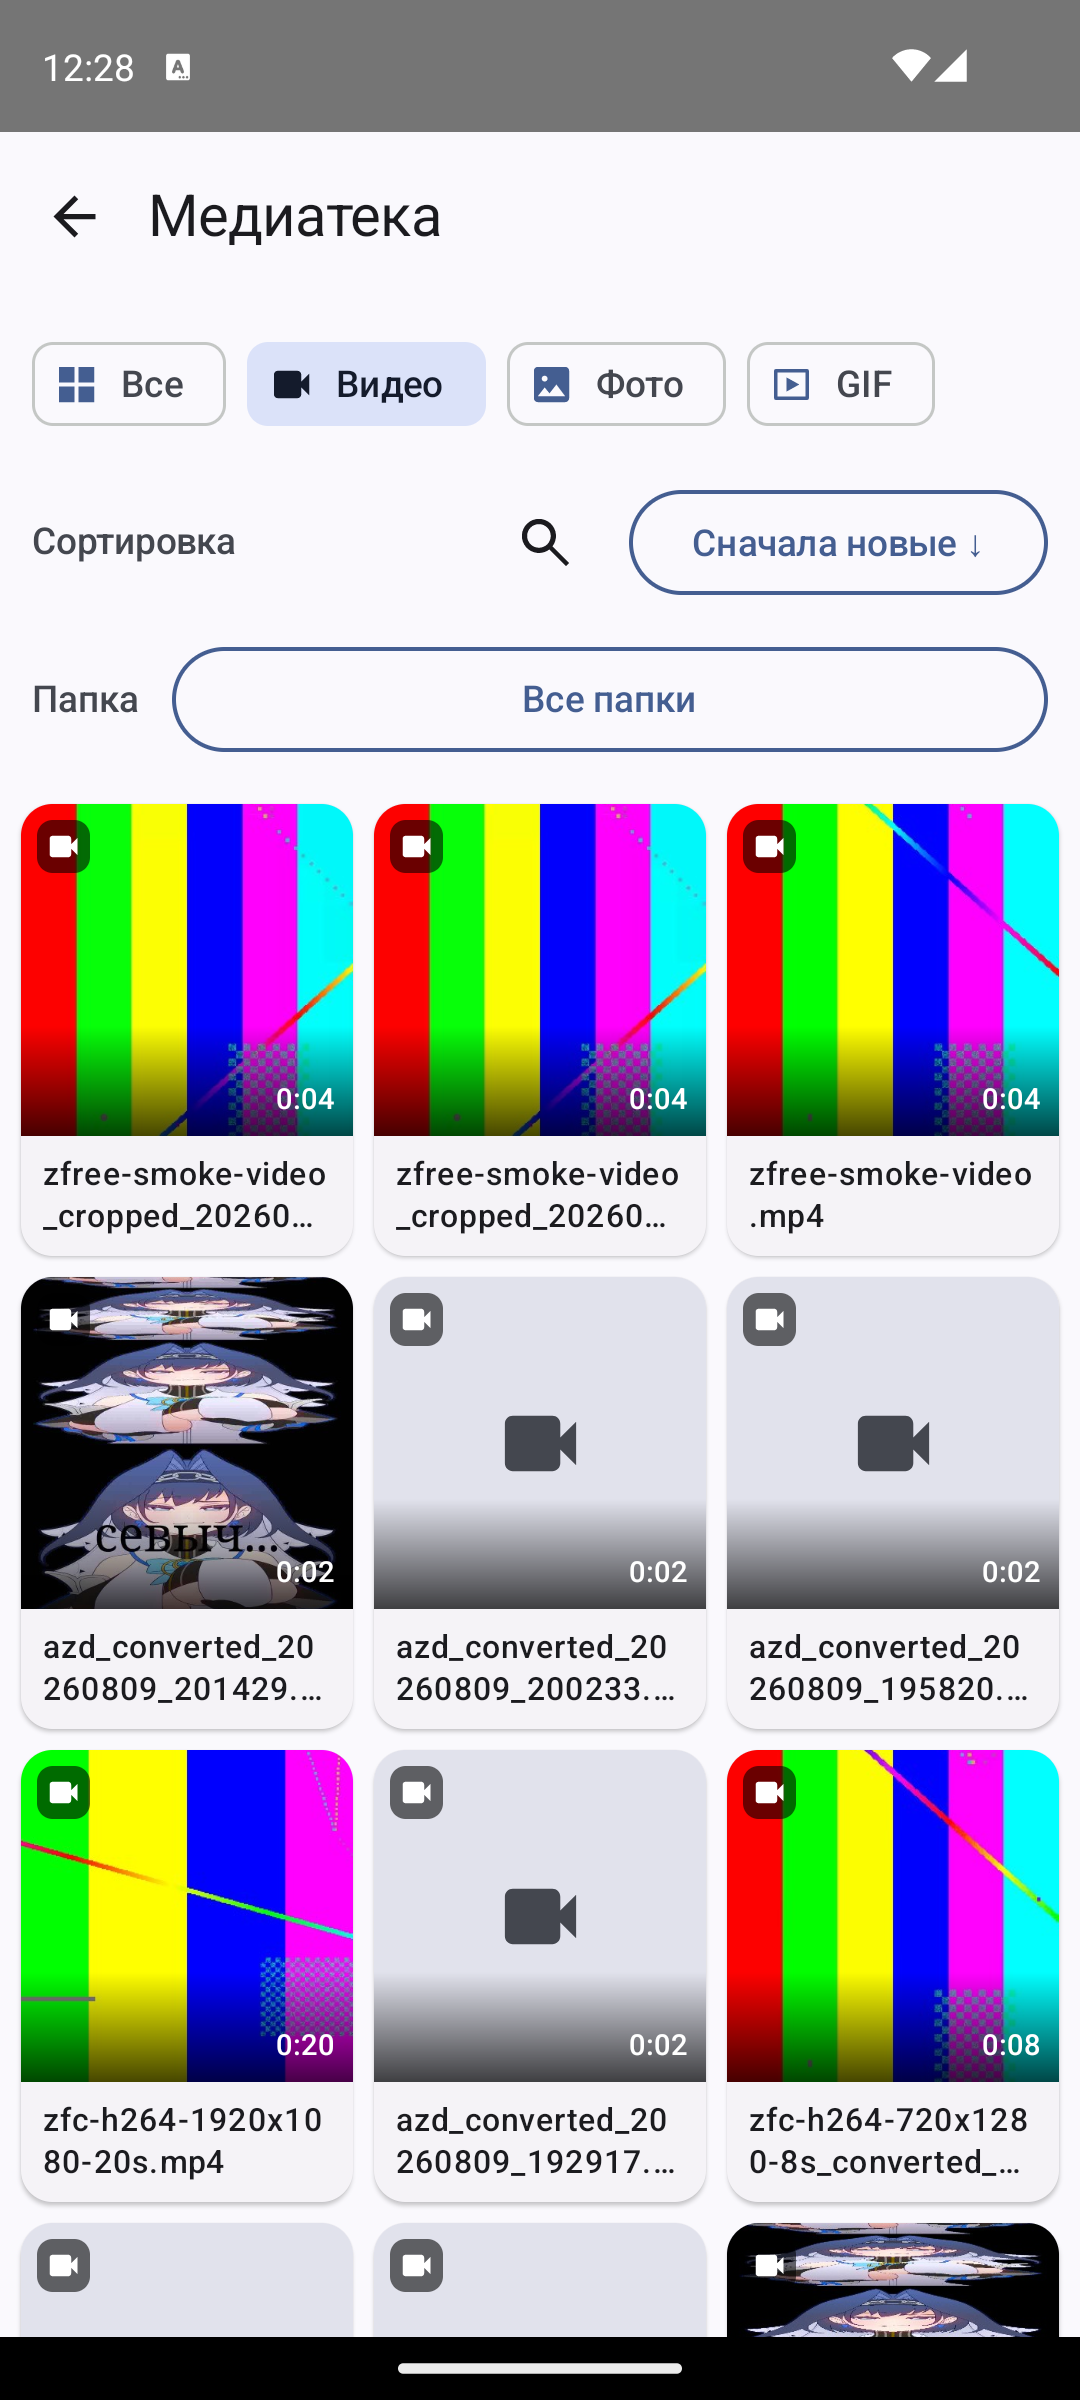
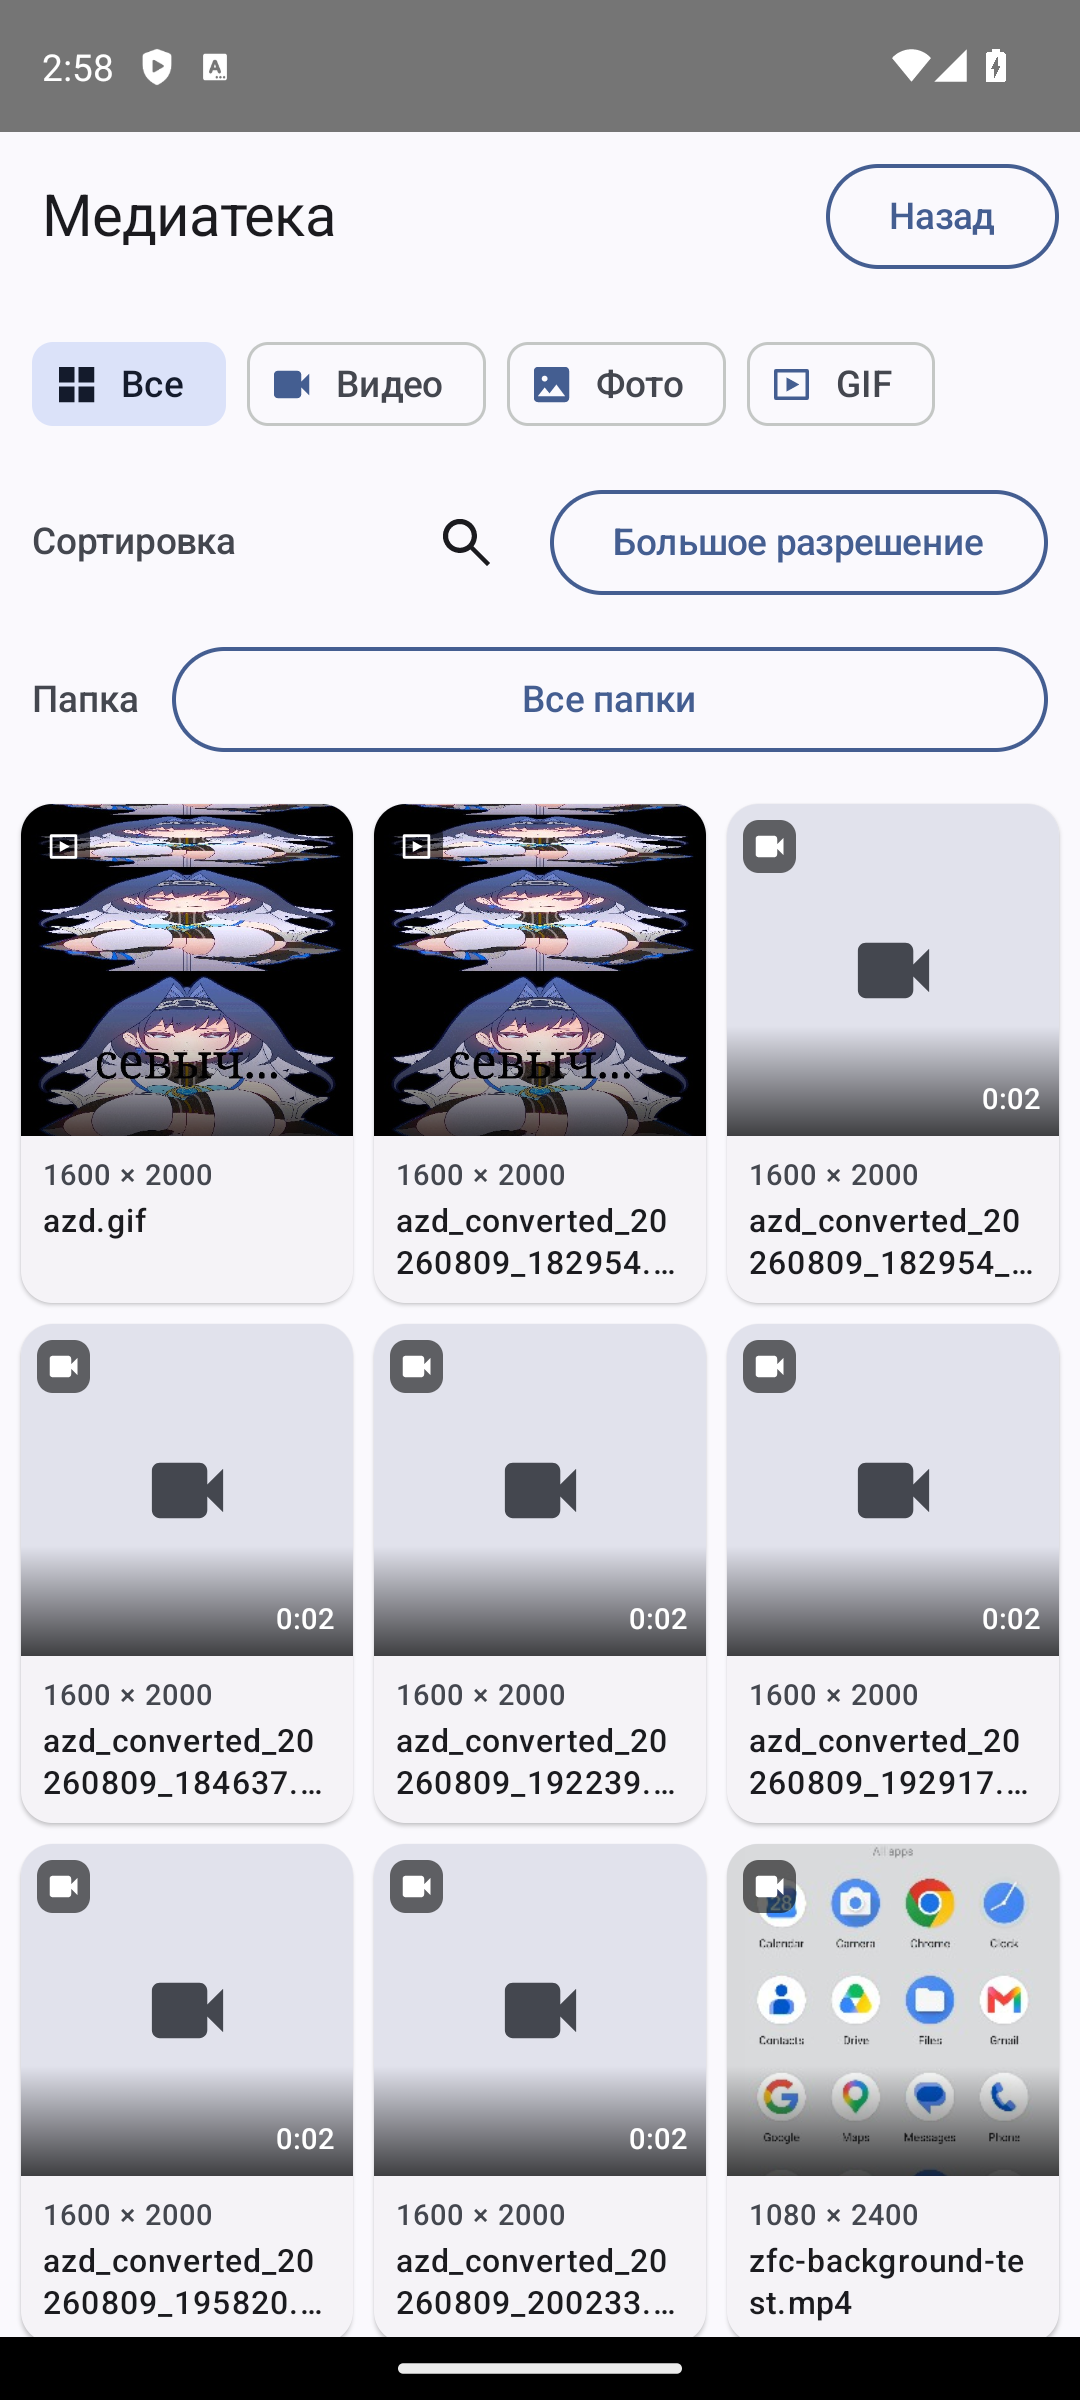
Update website for 0.5.5

diff --git a/app/page.tsx b/app/page.tsx
@@ -25,7 +25,7 @@ const copy = {
       titleA: "Обрежь лишнее.",
       titleB: "Оставь момент.",
       text: "Открой видео, фото или GIF, внеси нужные правки и сохрани результат. Всё происходит прямо на телефоне — понятно и без лишних шагов.",
-      download: "Скачать v0.5.4.1",
+      download: "Скачать v0.5.5",
       source: "Открыть код",
       note: "Бесплатно · Open source · без подписки",
       local: "Обработка на устройстве",
@@ -35,7 +35,7 @@ const copy = {
     intro: {
       kicker: "Всё в одном месте",
       title: "Один редактор для видео, фото и GIF.",
-      text: "Выбери файл на устройстве или найди медиа с открытой лицензией в онлайн-каталоге. Избранное доступно в отдельной онлайн-медиатеке, а сохранённый проект можно открыть снова в любой момент.",
+      text: "Выбери файл на устройстве или найди медиа с открытой лицензией в онлайн-каталоге. Локальная медиатека показывает фактические размеры и сортирует по разрешению, а сохранённый проект можно открыть снова в любой момент.",
     },
     media: {
       video: {
@@ -64,7 +64,7 @@ const copy = {
       names: ["Главная", "Медиатека", "Онлайн-медиа", "Редактор", "Эффекты", "Экспорт", "Настройки"],
     },
     final: {
-      eyebrow: "Версия 0.5.4.1 · Android 10+",
+      eyebrow: "Версия 0.5.5 · Android 10+",
       title: "Медиа уже на телефоне. Редактор тоже может быть там.",
       download: "Скачать APK",
       changelog: "Что нового",
@@ -91,7 +91,7 @@ const copy = {
       titleA: "Cut the noise.",
       titleB: "Keep the moment.",
       text: "Open a video, photo, or GIF, make the changes you need, and save the result. Everything happens right on your phone, without unnecessary steps.",
-      download: "Download v0.5.4.1",
+      download: "Download v0.5.5",
       source: "View source",
       note: "Free · Open source · no subscription",
       local: "On-device processing",
@@ -101,7 +101,7 @@ const copy = {
     intro: {
       kicker: "Everything in one place",
       title: "One editor for video, photos, and GIFs.",
-      text: "Choose a file on your device or find openly licensed media in the online catalog. Favorites stay in a dedicated online library, and saved projects can be reopened whenever you need them.",
+      text: "Choose a file on your device or find openly licensed media in the online catalog. The local library shows actual dimensions and sorts by resolution, and saved projects can be reopened whenever you need them.",
     },
     media: {
       video: {
@@ -130,7 +130,7 @@ const copy = {
       names: ["Home", "Library", "Online media", "Editor", "Effects", "Export", "Settings"],
     },
     final: {
-      eyebrow: "Version 0.5.4.1 · Android 10+",
+      eyebrow: "Version 0.5.5 · Android 10+",
       title: "Your media lives on your phone. Your editor can too.",
       download: "Download APK",
       changelog: "What’s new",
@@ -201,8 +201,8 @@ export default function Home() {
       if (description) {
         description.content =
           locale === "ru"
-            ? "ZFree Cutter 0.5.4.1 — открытый Android-редактор видео, фото и GIF с точным кадрированием и настраиваемым онлайн-поиском."
-            : "ZFree Cutter 0.5.4.1 is an open-source Android editor for video, photos, and GIFs with exact cropping and configurable online search.";
+            ? "ZFree Cutter 0.5.5 — открытый Android-редактор видео, фото и GIF с точным кадрированием, сортировкой по разрешению и настраиваемым онлайн-поиском."
+            : "ZFree Cutter 0.5.5 is an open-source Android editor for video, photos, and GIFs with exact cropping, resolution sorting, and configurable online search.";
       }
     });
     const revealElements = Array.from(document.querySelectorAll<HTMLElement>("[data-reveal]"));
@@ -440,7 +440,7 @@ export default function Home() {
             <p className="final-note">{t.final.note}</p>
             <div className="final-links">
               <a href={`${REPOSITORY_URL}/issues`} target="_blank" rel="noreferrer">{t.final.issues}</a>
-              <a href={`${REPOSITORY_URL}/releases/tag/v0.5.4.1`} target="_blank" rel="noreferrer">{t.final.changelog}</a>
+              <a href={`${REPOSITORY_URL}/releases/tag/v0.5.5`} target="_blank" rel="noreferrer">{t.final.changelog}</a>
             </div>
           </div>
           <div className="final-mark" aria-hidden="true">

diff --git a/app/layout.tsx b/app/layout.tsx
@@ -18,7 +18,7 @@ export const metadata: Metadata = {
   metadataBase: new URL(siteUrl),
   title: "ZFree Cutter — media editor for Android",
   description:
-    "ZFree Cutter 0.5.4.1 is an open-source Android editor for video, photos, and GIFs with exact cropping, configurable online media search, and on-device export.",
+    "ZFree Cutter 0.5.5 is an open-source Android editor for video, photos, and GIFs with exact cropping, resolution sorting, configurable online media search, and on-device export.",
   applicationName: "ZFree Cutter",
   authors: [{ name: "zmorok", url: "https://github.com/zmorok" }],
   keywords: ["Android", "video editor", "photo editor", "GIF editor", "open source", "Kotlin"],
@@ -37,7 +37,7 @@ export const metadata: Metadata = {
   },
   openGraph: {
     title: "ZFree Cutter — Cut the noise. Keep the moment.",
-    description: "Version 0.5.4.1 of the open-source media editor for Android.",
+    description: "Version 0.5.5 of the open-source media editor for Android.",
     url: siteUrl,
     siteName: "ZFree Cutter",
     locale: "en_US",
